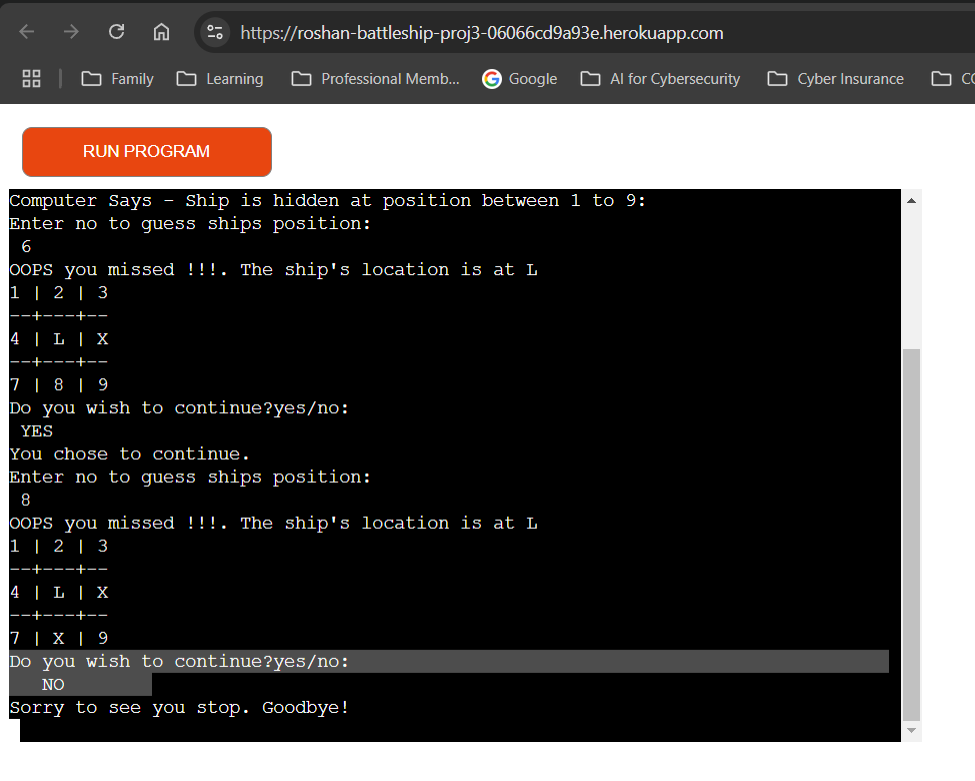
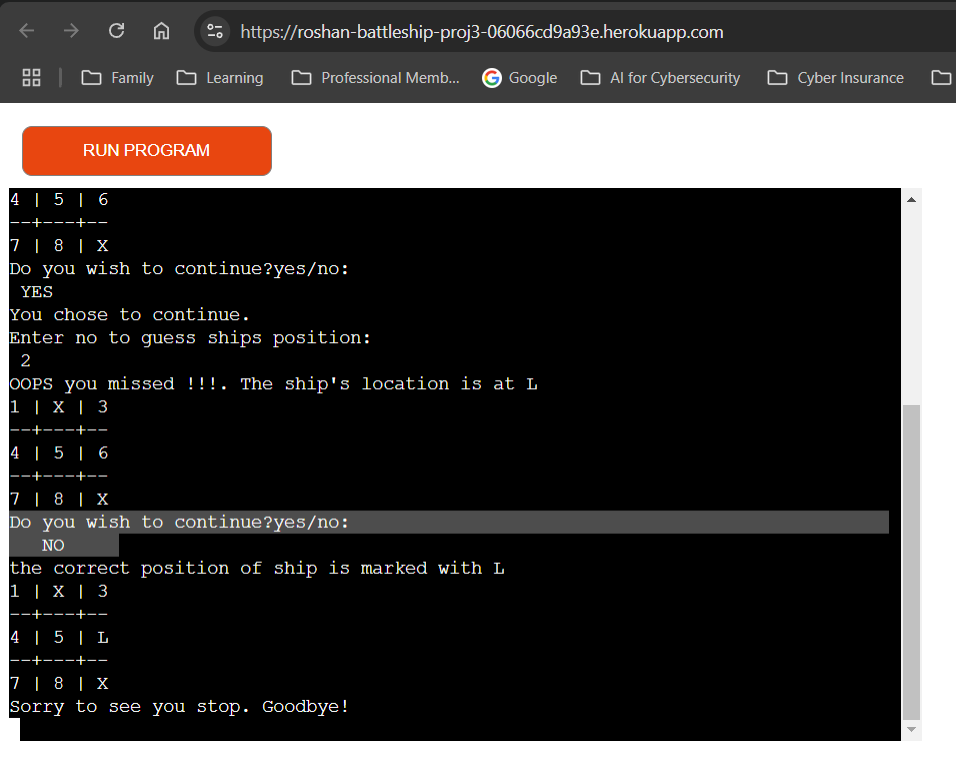
change to text message in play_game function

diff --git a/run.py b/run.py
@@ -1,5 +1,4 @@
 
-
 import random
 import datetime
 from pytz import timezone
@@ -60,7 +59,7 @@ def play_game():
             print("You have hit the jackpot! Well done !!!")
             the_board[code_generator] = "H"  # Mark a hit on the board
         else:
-            print("OOPS you missed !!!. The ship's location is at L")
+            print("OOPS you missed !!!.")
             the_board[code_generator] = "X"  # Mark X for a miss on the board
         """ print updated grid """
         print_grid(the_board)
@@ -86,7 +85,7 @@ def continue_game():
 
         else:
             user_input == 'no'
-            print('the correct position of ship is marked with L')
+            print('The correct position of ship is marked with L')
             the_board[value] = "L"  # Mark "L" for the correct position
             print_grid(the_board)
             print('Sorry to see you stop. Goodbye!')
